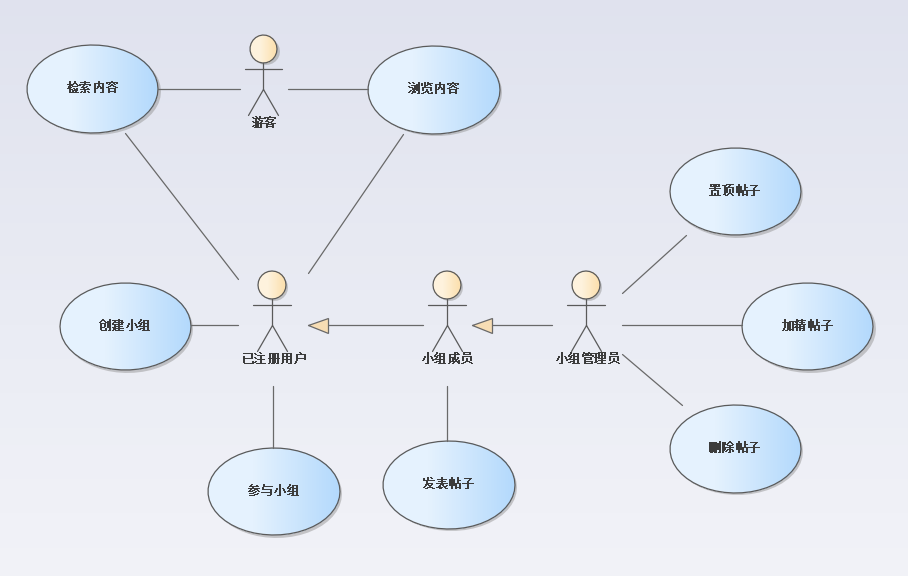
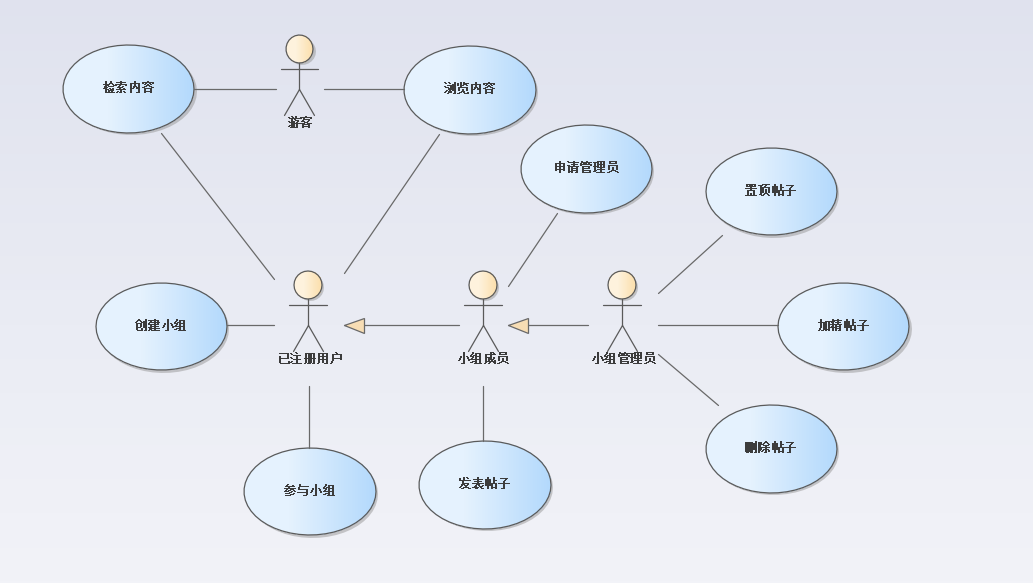
用例图分析

diff --git a/docs/需求规格说明书.md b/docs/需求规格说明书.md
@@ -1,4 +1,4 @@
-# 软件学院书籍影视交流平台——需求规格说明书
+软件学院书籍影视交流平台——需求规格说明书
 
 ## 概述
 ### 用户简介
@@ -107,9 +107,9 @@ IDE：Visual Studio Code
 |   输入   |         用户注册时的基本信息         |  |      |
 | 系统响应 | 系统将用户注册时的信息保存在数据库中     |  ||
 |   输出   | 用户可以用注册的用户名及密码进行登陆操作 |  |      |
-| 前置条件 | 未注册用户申请注册 | 后置条件 | 未注册用户成功更为会员 |
+| 前置条件 | 未注册用户申请注册 | 后置条件 | 注册成功，成为会员 |
 | 活动步骤 | 1. 未注册用户选择注册 <br />2. 系统返回一个注册页面 <br />3. 未注册用户输入相关注册信息 <br />4. 系统验证输入成功 <br />5. 用户提交注册信息 <br />6. 系统提交注册成功并返回首页 |              |      |
-| 异常处理 | 1. 注册时输入信息和系统验证不一致（如日期输入不合法，用户名不规范等），系统给出提示并返回注册界面<br />2. 输入用户名已注册时，系统给出提示然后并返回注册界面 <br />3. 系统异常，无法注册时（如网站维护等），无法注册，并给出相应信息。 |              |      |
+| 异常处理 | 1. 注册时输入信息和系统验证不一致系统给出提示<br />2. 用户名已注册，系统给出提示然后并返回注册界面 <br />3. 系统异常，无法注册，并给出相应信息。 |              |      |
 
 | 编号     | 102                                                          | 用例名称 | 登录           |
 | -------- | ------------------------------------------------------------ | -------- | :------------- |
@@ -177,11 +177,121 @@ IDE：Visual Studio Code
 | 活动步骤 | 1.用户点击想要浏览的内容<br />2.用户查看内容 |          |              |
 | 异常处理 | 用户想要查看内容不存在，系统给出相应的提示   |          |              |
 
+| 编号     | 202                                                          | 用例名称 | 检索内容                           |
+| -------- | ------------------------------------------------------------ | -------- | :--------------------------------- |
+| 使用人员 | 游客，已注册用户                                             | 扩展点   | 用户可以根据检索得到的内容进行浏览 |
+| 输入     | 检索关键词                                                   |          |                                    |
+| 系统响应 | 根据关键词在数据库中查询内容                                 |          |                                    |
+| 输出     | 符合关键词的内容                                             |          |                                    |
+| 前置条件 | 用户处于可以检索的主题                                       | 后置条件 | 成功加载页面                       |
+| 活动步骤 | 1.用户点击检索栏<br />2.用户输入关键词<br />3.用户点击检索按钮<br />4.系统给出检索结构 |          |                                    |
+| 异常处理 | 关键词包含敏感词，系统不返回结果                             |          |                                    |
+
+| 编号     | 203                                                          | 用例名称 | 评论影视书籍 |
+| -------- | ------------------------------------------------------------ | -------- | :----------- |
+| 使用人员 | 已注册用户                                                   | 扩展点   |              |
+| 输入     | 评论标题，评论内容                                           |          |              |
+| 系统响应 | 判断评论是否符合要求，若符合，则进行上传，发布               |          |              |
+| 输出     | 评论是否成功的提示                                           |          |              |
+| 前置条件 | 用户处于书籍或影视条目页面，且已登录                         | 后置条件 | 用户评论成功 |
+| 活动步骤 | 1.用户进入一个影视/书籍条目<br />2.用户点击评论按钮<br />3.用户输入评论标题和评论内容<br />4.用户从一星到五星中选择一个按钮点击<br />5.用户点击确认按钮<br />6.系统给出发表成功与否的提示 |          |              |
+| 异常处理 | 1.评论格式不符合要求，系统给出提示<br />2.用户不是注册用户，或者注册后未登录，系统提示注册/登录 |          |              |
+
+| 编号     | 204                                                          | 用例名称 | 评分影视书籍 |
+| -------- | ------------------------------------------------------------ | -------- | :----------- |
+| 使用人员 | 已注册用户                                                   | 扩展点   |              |
+| 输入     | 用户点击的分数（1-5颗星）                                    |          |              |
+| 系统响应 | 将评分上传数据库                                             |          |              |
+| 输出     | 评分成功的提示                                               |          |              |
+| 前置条件 | 用户处于书籍或影视条目页面，且已登录                         | 后置条件 | 用户评分成功 |
+| 活动步骤 | 1.用户进入一个影视/书籍条目<br />2.用户点击评分按钮<br />3.用户从一星到五星中选择一个按钮点击 <br />4.用户点击确认按钮 <br />5.系统给出评分成功与否的提示 |          |              |
+| 异常处理 | 用户不是注册用户，或者注册后未登录，系统提示注册/登录        |          |              |
+
+| 编号     | 205                                                          | 用例名称 | 点赞评论     |
+| -------- | ------------------------------------------------------------ | -------- | :----------- |
+| 使用人员 | 已注册用户                                                   | 扩展点   |              |
+| 输入     | 用户点击                                                     |          |              |
+| 系统响应 | 点赞数据上传数据库                                           |          |              |
+| 输出     | 点赞成功提示                                                 |          |              |
+| 前置条件 | 用户处于书籍或影视条目的评论列表，且已登录                   | 后置条件 | 点赞评论成功 |
+| 活动步骤 | 1.用户进入一条评论页面 <br />2.用户点击点赞按钮 <br />3.系统给出点赞成功与否的提示 |          |              |
+| 异常处理 | 用户不是注册用户，或者注册后未登录，系统提示注册/登录        |          |              |
+
+| 编号     | 206                                                          | 用例名称 | 反对评论     |
+| -------- | ------------------------------------------------------------ | -------- | :----------- |
+| 使用人员 | 已注册用户                                                   | 扩展点   |              |
+| 输入     | 用户点击                                                     |          |              |
+| 系统响应 | 反对数据上传数据库                                           |          |              |
+| 输出     | 反对成功提示                                                 |          |              |
+| 前置条件 | 用户处于书籍或影视条目的评论列表，且已登录                   | 后置条件 | 反对评论成功 |
+| 活动步骤 | 1.用户进入一条评论页面 <br />2.用户点击反对按钮 <br />3.系统给出反对成功与否的提示 |          |              |
+| 异常处理 | 用户不是注册用户，或者注册后未登录，系统提示注册/登录        |          |              |
+
+| 编号     | 207                                                          | 用例名称 | 举报评论     |
+| -------- | ------------------------------------------------------------ | -------- | :----------- |
+| 使用人员 | 已注册用户                                                   | 扩展点   |              |
+| 输入     | 用户点击举报按钮，输入举报标题和原因                         |          |              |
+| 系统响应 | 系统判断是否符合要求，若符合，则上传到数据库                 |          |              |
+| 输出     | 举报成功提交提示                                             |          |              |
+| 前置条件 | 用户处于书籍或影视条目的评论列表，且已登录                   | 后置条件 | 举报成功提交 |
+| 活动步骤 | 1.用户进入一条评论页面 <br />2.用户点击举报按钮<br />3.用户输入举报标题和举报内容<br />4.用户点击提交按钮<br />5.系统给出提交成功与否的提示 |          |              |
+| 异常处理 | 1.用户是游客，或者注册后未登录，系统提示注册/登录<br />2.举报格式不符合要求，系统进行相关提示。 |          |              |
+
 #### 话题模块
 
 用例图如图所示
 
 ![](pic\话题模块用例图.png)
+
+| 编号     | 301                                          | 用例名称 | 浏览内容     |
+| -------- | -------------------------------------------- | -------- | :----------- |
+| 使用人员 | 游客，已注册用户                             | 扩展点   | 无           |
+| 输入     | 想要浏览的页面                               |          |              |
+| 系统响应 | 加载相应的内容                               |          |              |
+| 输出     | 显示页面                                     |          |              |
+| 前置条件 | 用户处于相应的页面                           | 后置条件 | 成功加载页面 |
+| 活动步骤 | 1.用户点击想要浏览的内容<br />2.用户查看内容 |          |              |
+| 异常处理 | 用户想要查看内容不存在，系统给出相应的提示   |          |              |
+
+| 编号     | 302                                                          | 用例名称 | 检索内容                       |
+| -------- | ------------------------------------------------------------ | -------- | :----------------------------- |
+| 使用人员 | 游客，已注册用户                                             | 扩展点   | 用户可以通过检索得到的内容浏览 |
+| 输入     | 检索关键词                                                   |          |                                |
+| 系统响应 | 根据关键词在数据库中查询内容                                 |          |                                |
+| 输出     | 符合关键词的内容                                             |          |                                |
+| 前置条件 | 用户处于可以检索的主题                                       | 后置条件 | 成功加载页面                   |
+| 活动步骤 | 1.用户点击检索栏<br />2.用户输入关键词<br />3.用户点击检索按钮<br />4.系统给出检索结构 |          |                                |
+| 异常处理 | 关键词包含敏感词，系统不返回结果                             |          |                                |
+
+| 编号     | 303                                                          | 用例名称 | 参与话题     |
+| -------- | ------------------------------------------------------------ | -------- | :----------- |
+| 使用人员 | 已注册用户                                                   | 扩展点   |              |
+| 输入     | 用户点击                                                     |          |              |
+| 系统响应 | 系统将该用户标记为该话题参与者上传数据库                     |          |              |
+| 输出     | 参与成功与否的提示                                           |          |              |
+| 前置条件 | 用户处于话题页面，且已登录                                   | 后置条件 | 参与话题成功 |
+| 活动步骤 | 1.用户选择一个话题<br />2.用户点击参与话题<br />3.系统返回参与是否成功的提示 |          |              |
+| 异常处理 | 1.用户是游客，或者注册后未登录，系统提示注册/登录            |          |              |
+
+| 编号     | 304                                                          | 用例名称 | 创建话题     |
+| -------- | ------------------------------------------------------------ | -------- | :----------- |
+| 使用人员 | 已注册用户                                                   | 扩展点   |              |
+| 输入     | 用户点击，话题相关信息                                       |          |              |
+| 系统响应 | 系统判断相关信息受否符合要求，然后将话题上传、发布。         |          |              |
+| 输出     | 创建是否成功的提示。                                         |          |              |
+| 前置条件 | 用户处于话题页面，且已登录                                   | 后置条件 | 创建话题成功 |
+| 活动步骤 | 1.用户点击创建话题<br />2.用户输入话题信息<br />3.用户点击创建按钮<br />4.系统判断是否符合要求，返回提示 |          |              |
+| 异常处理 | 1.用户是游客，或者注册后未登录，系统提示注册/登录<br />2.用户提交的信息不符合要求，系统给出修改意见 |          |              |
+
+| 编号     | 305                                                          | 用例名称 | 发表图文     |
+| -------- | ------------------------------------------------------------ | -------- | :----------- |
+| 使用人员 | 话题成员                                                     | 扩展点   |              |
+| 输入     | 用户输入的图片和文字                                         |          |              |
+| 系统响应 | 将相关信息上传数据库                                         |          |              |
+| 输出     | 发表成功与否的提示                                           |          |              |
+| 前置条件 | 用户处于某一话题条目页面，且已登录                           | 后置条件 | 发表图文成功 |
+| 活动步骤 | 1.用户输入文字，上传图片<br />2.用户点击发布按钮<br />3.系统返回参与是否成功的提示 |          |              |
+| 异常处理 | 1.用户未参与话题，系统提示参与话题。<br />2.用户发布的图文不合规范，系统提示修改 |          |              |
 
 #### 小组模块
 
@@ -189,17 +299,98 @@ IDE：Visual Studio Code
 
 ![](pic\小组模块用例图.png)
 
-|     编号     |      |   用例名称   | 驳回授信申请 |
-| :----------: | :--: | :----------: | :----------: |
-| **使用人员** |      |  **扩展点**  |              |
-|   **输入**   |      |              |              |
-| **系统响应** |      |              |              |
-|   **输出**   |      |              |              |
-| **前置条件** |      | **后置条件** |              |
-| **活动步骤** |      |              |              |
-| **异常处理** |      |              |              |
+| 编号     | 401                                          | 用例名称 | 浏览内容     |
+| -------- | -------------------------------------------- | -------- | :----------- |
+| 使用人员 | 游客，已注册用户                             | 扩展点   | 无           |
+| 输入     | 想要浏览的页面                               |          |              |
+| 系统响应 | 加载相应的内容                               |          |              |
+| 输出     | 显示页面                                     |          |              |
+| 前置条件 | 用户处于相应的页面                           | 后置条件 | 成功加载页面 |
+| 活动步骤 | 1.用户点击想要浏览的内容<br />2.用户查看内容 |          |              |
+| 异常处理 | 用户想要查看内容不存在，系统给出相应的提示   |          |              |
+
+| 编号     | 402                                                          | 用例名称 | 检索内容                       |
+| -------- | ------------------------------------------------------------ | -------- | :----------------------------- |
+| 使用人员 | 游客，已注册用户                                             | 扩展点   | 用户可以通过检索得到的内容浏览 |
+| 输入     | 检索关键词                                                   |          |                                |
+| 系统响应 | 根据关键词在数据库中查询内容                                 |          |                                |
+| 输出     | 符合关键词的内容                                             |          |                                |
+| 前置条件 | 用户处于可以检索的主题                                       | 后置条件 | 成功加载页面                   |
+| 活动步骤 | 1.用户点击检索栏<br />2.用户输入关键词<br />3.用户点击检索按钮<br />4.系统给出检索结构 |          |                                |
+| 异常处理 | 关键词包含敏感词，系统不返回结果                             |          |                                |
+
+| 编号     | 403                                                          | 用例名称 | 参与小组     |
+| -------- | ------------------------------------------------------------ | -------- | :----------- |
+| 使用人员 | 已注册用户                                                   | 扩展点   |              |
+| 输入     | 用户点击                                                     |          |              |
+| 系统响应 | 系统将该用户标记为该小组成员                                 |          |              |
+| 输出     | 参与成功与否的提示                                           |          |              |
+| 前置条件 | 用户处于小组页面，且已登录                                   | 后置条件 | 参与小组成功 |
+| 活动步骤 | 1.用户选择一个小组<br />2.用户点击加入小组<br />3.系统返回参与是否成功的提示 |          |              |
+| 异常处理 | 1.用户是游客，或者注册后未登录，系统提示注册/登录            |          |              |
+
+| 编号     | 404                                                          | 用例名称 | 创建小组             |
+| -------- | ------------------------------------------------------------ | -------- | :------------------- |
+| 使用人员 | 已注册用户                                                   | 扩展点   | 创建者成为小组管理员 |
+| 输入     | 用户点击，小组基本信息                                       |          |                      |
+| 系统响应 | 系统判断相关信息受否符合要求，然后在数据库中新建一个条目     |          |                      |
+| 输出     | 创建是否成功的提示。                                         |          |                      |
+| 前置条件 | 用户处于小组页面，且已登录                                   | 后置条件 | 创建小组成功         |
+| 活动步骤 | 1.用户点击创建小组<br />2.用户输入小组信息<br />3.用户点击创建按钮<br />4.系统判断是否符合要求，返回提示 |          |                      |
+| 异常处理 | 1.用户是游客，或者注册后未登录，系统提示注册/登录<br />2.用户提交的信息不符合要求，系统给出修改意见 |          |                      |
+
+| 编号     | 405                                                          | 用例名称 | 发表帖子     |
+| -------- | ------------------------------------------------------------ | -------- | :----------- |
+| 使用人员 | 小组成员                                                     | 扩展点   |              |
+| 输入     | 用户输入的帖子内容                                           |          |              |
+| 系统响应 | 将相关信息上传数据库                                         |          |              |
+| 输出     | 发表成功与否的提示                                           |          |              |
+| 前置条件 | 用户处于某一小组条目页面，且已登录                           | 后置条件 | 发表帖子成功 |
+| 活动步骤 | 1.用户点击发帖按钮<br />2.用户输入帖子内容<br />3.用户点击tie发布按钮<br />4.系统返回发布是否成功的提示 |          |              |
+| 异常处理 | 1.用户未参与小组，系统提示加入小组。<br />2.用户发布的内容不合规范，系统提示修改 |          |              |
+
+| 编号     | 406                                                          | 用例名称 | 申请管理员   |
+| -------- | ------------------------------------------------------------ | -------- | :----------- |
+| 使用人员 | 小组成员                                                     | 扩展点   |              |
+| 输入     | 用户点击，申请信息                                           |          |              |
+| 系统响应 | 将相关申请信息上传数据库                                     |          |              |
+| 输出     | 发表成功与否的提示                                           |          |              |
+| 前置条件 | 用户处于某一小组条目页面，且已登录                           | 后置条件 | 申请提交成功 |
+| 活动步骤 | 1.用户点击申请管理员按钮<br />2.用户输入申请信息<br />3.用户点击提交按钮<br />4.系统返回提交是否成功的提示 |          |              |
+| 异常处理 | 1.用户未参与小组，系统提示加入小组。<br />2.提交的申请信息不符合要求，系统给出修改提示 |          |              |
+
+| 编号     | 407                                                          | 用例名称 | 置顶帖子     |
+| -------- | ------------------------------------------------------------ | -------- | :----------- |
+| 使用人员 | 小组管理员                                                   | 扩展点   |              |
+| 输入     | 用户点击                                                     |          |              |
+| 系统响应 | 将帖子置顶信息上传数据库                                     |          |              |
+| 输出     | 置顶成功与否的提示                                           |          |              |
+| 前置条件 | 用户处于帖子管理页面，且已登录                               | 后置条件 | 帖子置顶成功 |
+| 活动步骤 | 1.用户选择一个帖子<br />2.用户点击置顶按钮<br />3.系统返回置顶是否成功的提示 |          |              |
+| 异常处理 | 1.用户不是管理员，系统提示没有权限<br />2.置顶帖子已达到上限，系统给出提示 |          |              |
+
+| 编号     | 408                                                          | 用例名称 | 加精帖子     |
+| -------- | ------------------------------------------------------------ | -------- | :----------- |
+| 使用人员 | 小组管理员                                                   | 扩展点   |              |
+| 输入     | 用户点击                                                     |          |              |
+| 系统响应 | 将帖子加精信息上传数据库                                     |          |              |
+| 输出     | 加精成功与否的提示                                           |          |              |
+| 前置条件 | 用户处于帖子管理页面，且已登录                               | 后置条件 | 帖子加精成功 |
+| 活动步骤 | 1.用户选择一个帖子<br />2.用户点击精华按钮<br />3.系统返回加精是否成功的提示 |          |              |
+| 异常处理 | 1.用户不是管理员，系统提示没有权限<br />2.加精帖子已达到上限，系统给出提示 |          |              |
+
+| 编号     | 409                                                          | 用例名称 | 删除帖子     |
+| -------- | ------------------------------------------------------------ | -------- | :----------- |
+| 使用人员 | 小组管理员                                                   | 扩展点   |              |
+| 输入     | 用户点击                                                     |          |              |
+| 系统响应 | 将帖子信息从数据库中删除                                     |          |              |
+| 输出     | 删除成功与否的提示                                           |          |              |
+| 前置条件 | 用户处于帖子管理页面，且已登录                               | 后置条件 | 帖子删除成功 |
+| 活动步骤 | 1.用户选择一个帖子按钮<br />2.用户点击删除按钮<br />3.系统返回置顶是否成功的提示 |          |              |
+| 异常处理 | 1.用户不是管理员，系统提示没有权限<br />2.想要删除的帖子不存在，系统给出提示 |          |              |
 
 ### 功能实现
+
 ## 系统性能需求
 
 ## 系统界面设计
